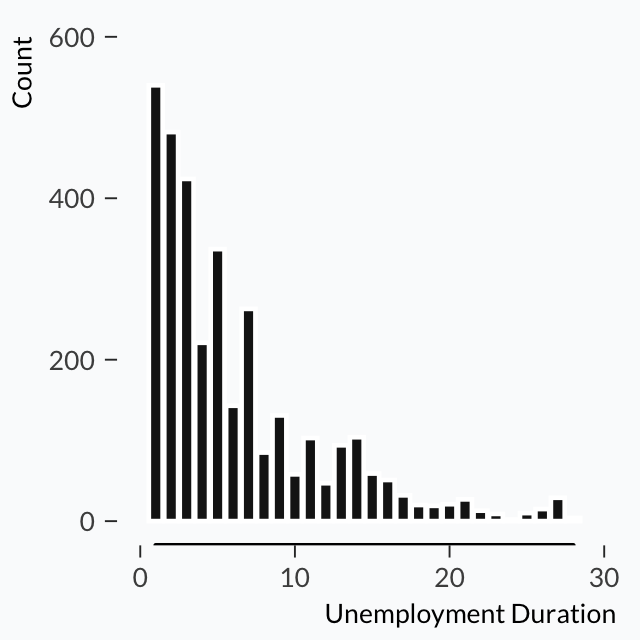
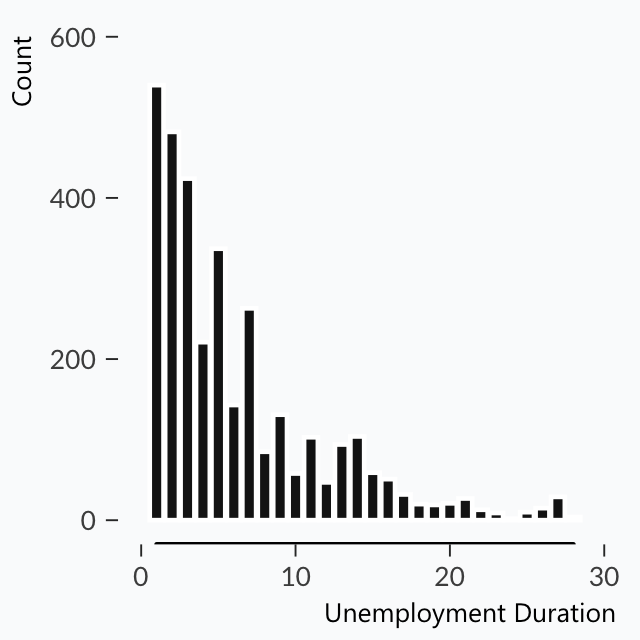
adjust font sizes

diff --git a/css/tufte.scss b/css/tufte.scss
@@ -40,6 +40,8 @@ body {
     max-width: 1400px;
     counter-reset: sidenote-counter;
     line-height: 0.0;
+    text-align: justify;
+    text-justify: inter-word;
 }
 
 p, a {
@@ -185,16 +187,15 @@ blockquote footer {
 //     letter-spacing: .03em;
 // }
 
-pre, pre code, p code, p pre code {
+pre, pre code, p code, p pre code, .marginnote code, figcaption.maincolumn-figure code {
     // Inline code 
     font-family: OperatorMono;
     font-size: 1rem;
-    // margin-top: 1.71428571rem;
     color: $code-color;
     background-color: #eeeff0;
-    padding-left: 3px;
-    padding-right: 3px;
-    border-radius: 05px;
+    padding-left: 6px;
+    padding-right: 6px;
+    border-radius: 5px;
 }
 
 pre code {
@@ -203,12 +204,11 @@ pre code {
     margin-left: -2rem;
     line-height: 1.6;
     padding: 0.5rem 1rem 0.5rem 1rem;
-    // margin-top: -1.0rem;
     margin-bottom: 0rem;
     color: $code-color;
-    display: inline-block;
     display: block;
     background: $bg-color;
+    background-color: contrast-color;
     
 }
 
@@ -237,10 +237,6 @@ table.norulers td {
     border-bottom: 0px solid $border-color;
 }
 
-
-table.norulers tr code {
-    font-family: OperatorMono;
-}
 
 table.norulers tr em {
     font-size: 1.0rem;
@@ -380,6 +376,12 @@ figure.fullwidth figcaption {
 
 img { max-width: 100%; }
 
+figcaption.maincolumn-figure {
+    max-width: 50%;
+    margin-right: -60%;
+    
+}
+
 .sidenote, .marginnote {
     float: right;
     clear: right;
@@ -516,9 +518,6 @@ figcaption.maincolumn-figure, figcaption.maincolumn-figure a, figcaption.maincol
     font-size: 0.8rem;
 }
 
-figcaption.maincolumn-figure code {
-    font-family: OperatorMono;
-}
 
 /*--- End of Basic Layout stuff from tufte.css ---*/
 

diff --git a/_sass/_settings.scss b/_sass/_settings.scss
@@ -3,7 +3,6 @@ $sans-font: Myriad, "Gill Sans", "Gill Sans MT", "Gotham Narrow", "Lato", Calibr
 $code-font: OperatorMono, "Liberation Mono", Menlo, Courier, monospace;
 $url-font: "Lucida Console", "Lucida Sans Typewriter", Monaco, "Bitstream Vera Sans Mono", monospace;
 $text-color: #111;
-// $bg-color: #ffffff;
 $bg-color: #fafbfc;
 $code-color: #24292e;
 $contrast-color: #a00000;

diff --git a/_posts/2021-04-12-Survival-Analysis.md b/_posts/2021-04-12-Survival-Analysis.md
@@ -22,7 +22,8 @@ where files are split into `imports.R`, `exploratory.R` and
 We begin the analysis by loading the data into our R workspace along with
 the packages we're going to use. The data itself is from [the Ecdat
 package](https://cran.r-project.org/web/packages/Ecdat/Ecdat.pdf) and was
-used in McCall (1996).
+used in McCall (1996). The main methodological references are Cameron &
+Trivedi (2005) and Wooldridge (2010).
 
 {% marginfigure 'fig2' 'assets/unemp/censored_hist.png' "**Figure
 2**: Distributions of the four `censor` variables where I've changed the
@@ -75,11 +76,9 @@ entered the workforce at the end of the survey.
 <tr><td><code>tenure</code></td><td>Tenure at lost job.</td></tr>
 </table>
 
-
 As a last step in the introduction, summary statistics are computed for
 each variable using my own `dsummary()` function, the definition of which
 can be found in [my .Rprofile](https://github.com/mhoirup/dotfiles/blob/main/.Rprofile).
-
 
 {% marginnote 'tableID-3' "**Table 1**: Summaries of categorical variables.
 They're all binary variables, although of different data types, i.e.
@@ -87,19 +86,19 @@ boolean or character vectors. For all the `censor` variables we observe
 non-censoring more often than not, while the availability of unemployment
 insurance appears to be evenly split among observations." %}
 
-|Variable  |Type      |N Unique |Most Frequent Value|Min   |Mean  |Max   |SD    |
-|:---------|:---------|--------:|------------------:|-----:|-----:|-----:|-----:|
-|`spell`   |`integer` |         |                   |1.00  |6.25  |28.00 |5.61  |
-|`censor1` |`logical` |2        |  `FALSE` (67.90%) |      |      |      |      |
-|`censor2` |`logical` |2        |  `FALSE` (89.86%) |      |      |      |      |
-|`censor3` |`logical` |2        |  `FALSE` (82.83%) |      |      |      |      |
-|`censor4` |`logical` |2        |  `FALSE` (62.46%) |      |      |      |      |
-|`age`     |`integer` |         |                   |20.00 |35.44 |61.00 |10.64 |
-|`ui`      |`factor`  |2        |  `yes` (55.28%)   |      |      |      |      |
-|`reprate` |`double`  |         |                   |0.07  |0.45  |2.06  |0.11  |
-|`disrate` |`double`  |         |                   |0.00  |0.11  |1.02  |0.07  |
-|`logwage` |`double`  |         |                   |2.71  |5.69  |7.60  |0.54  |
-|`tenure`  |`integer` |         |                   |0.00  |4.11  |40.00 |5.86  |
+|Variable  |Vector Type|N Unique |Most Frequent Value|Min   |Mean  |Max   |SD    |
+|:---------|:----------|--------:|------------------:|-----:|-----:|-----:|-----:|
+|`spell`   |`integer`  |         |                   |1.00  |6.25  |28.00 |5.61  |
+|`censor1` |`logical`  |2        |  `FALSE` (67.90%) |      |      |      |      |
+|`censor2` |`logical`  |2        |  `FALSE` (89.86%) |      |      |      |      |
+|`censor3` |`logical`  |2        |  `FALSE` (82.83%) |      |      |      |      |
+|`censor4` |`logical`  |2        |  `FALSE` (62.46%) |      |      |      |      |
+|`age`     |`integer`  |         |                   |20.00 |35.44 |61.00 |10.64 |
+|`ui`      |`factor`   |2        |  `yes` (55.28%)   |      |      |      |      |
+|`reprate` |`double`   |         |                   |0.07  |0.45  |2.06  |0.11  |
+|`disrate` |`double`   |         |                   |0.00  |0.11  |1.02  |0.07  |
+|`logwage` |`double`   |         |                   |2.71  |5.69  |7.60  |0.54  |
+|`tenure`  |`integer`  |         |                   |0.00  |4.11  |40.00 |5.86  |
 
 {% marginfigure 'fig3' 'assets/unemp/age_hist.png' '**Figure 3**: Distribution
 of `age`. Bin width is set at 2 to reduce the number of bars in the graph.
@@ -121,6 +120,28 @@ typically deal with one of the following censoring mechanisms:
 <tr><td><strong>left-censoring</strong></td><td>Spell has already ended at censor time $c$. Time $t$ is unknown but somewhere in the interval $(0,c)$.</td></tr>
 <tr><td><strong>interval-censoring</strong></td><td>Spell has ended at censor time $c$, but time $t$ is unknown. What is known is that $t$ is somewhere in the interval $[t_1^*,t_2^*]$.</td></tr>
 </table>
+
+Define the **censoring mechanism** as $C$, and let $T^\*$ denote the true (as
+in, unaffected by censoring) version of the observed variable $T$. Thus we
+observed the variables
+
+$$
+    \begin{align}
+        T&=\min(T^*,C) \\
+        \delta&=I(T^*>C)
+    \end{align}
+$$
+
+where, in our data loaded into R, `spell` correspond to $T$ and `censor4`
+to $\delta$. For standard survival analysis methods to be valid under the
+presence of censoring, we require $C$ to be independent from $T$, so that,
+if $C\sim D(\boldsymbol{\theta}_{\small C})$ and $T^\*\sim
+D(\boldsymbol{\theta}\_{\small T^\*})$, then $\boldsymbol{\theta}\_{\small
+C}$ is uninformative about $\boldsymbol{\theta}\_{\small T^\*}$, in which
+case we can treat $\delta$ as exogenous and therefore don't have to model $C$.  
+
+
+
 
 {% maincolumn 'assets/unemp/spell_censor4.png' "**Figure 4**: `censor4` over the values
 of `spell`. Unsurprisingly, the length of the spell appear to correspond to
@@ -282,108 +303,4 @@ function as specified by the distribution, and
 $h(\boldsymbol{x},\boldsymbol{\beta})$ is a scale factor, where typically
 $h(\boldsymbol{x},\boldsymbol{\beta})=\exp(\boldsymbol{x}^{\small{\prime}}\boldsymbol{\beta})$.
 For example, under the Weibull distribution we have $\lambda_0(t)=$ 
-
-
-### Variate Selection and Model Fitting
-
-
-```R
-specification <- function(response, regressors, lhs = NULL, rhs = NULL,
-    polynomials = NULL, intercept = TRUE) {
-    # This function is to ease the tinkering with variables in the model
-    # estimation procedure. Since a string can be converted into an R
-    # formula, manipulating the formula can be boiled down to string
-    # manipulation.
-    # Initiate the formula by concatenating the regressors with '+' and
-    # 'response ~'.
-    spec <- paste(response, '~', paste(regressors, collapse = '+'))
-    # Create any interaction terms where terms are specified by lhs and rhs.
-    if (!is.null(lhs) && !is.null(rhs)) {
-        M <- expand.grid(lhs, rhs)
-        idx <- sapply(seq_len(nrow(M)), function(i) M[i, 1] != M[i, 2])
-        spec <- paste(spec, '+', paste(M[idx, 1], M[idx, 2], sep = ':',
-            collapse = '+'))
-    }
-    # Add to the formula any polynomial terms of order 2.
-    if (!is.null(polynomials)) {
-        spec <- paste(spec, paste(paste0(polynomials, '^2'), collapse = '+'))
-    }
-    # Optional: remove intercept.
-    if (intercept == FALSE) spec <- paste(spec, '-1')
-    as.formula(spec)
-}
-
-spec <- function(x) specification('Surv(spell, censor4 == 0)', x)
-regressors <- names(data)[!grepl('censor|spell', names(data))]
-progress <- data.frame() # Bad practice to fill out a dataframe without
-# specifying its size first, but we don't know how many variables
-# are insignificant.
-
-for (dist in c('weibull', 'exponential', 'lognormal', 'loglogistic', 'coxph')) {
-    covariates <- regressors; reduced <- TRUE
-    while (reduced) {
-        # The 'coxph' isn't really a distribution, but here we simply specify
-        # the Cox model instead if dist == 'coxph'.
-        if (dist == 'coxph') unrestricted <- coxph(spec(covariates), data)
-        else unrestricted <- survreg(spec(covariates), data, dist = dist)
-        # Get the p-values and sort them highest to lowest. Idx gives the
-        # indices in covariates corresponding to the sorted list of p-values.
-        # Also keeps track of the current numbers of rows in progress.
-        cfs <- coeftest(unrestricted); rows <- nrow(progress)
-        pvalues <- cfs[!(rownames(cfs) %in% c('(Intercept)', 'Log(scale)')), 4]
-        idx <- sort(pvalues, index.return = TRUE, decreasing = TRUE)$ix
-        for (var in covariates[idx]) {
-            # Estimate the model without the candiate variate and compute the
-            # p-value for the likelihood ratio test.
-            subset <- covariates[covariates != var]
-            if (dist == 'coxph') restricted <- coxph(spec(subset), data)
-            else restricted <- survreg(spec(subset), data, dist = dist)
-            lr_pvalue <- lmtest::lrtest(unrestricted, restricted)[[5]][2]
-            # Here we check for the percentage change in the remaining
-            # coefficients, with an acceptable limit being at 15% in either
-            # direction.
-            new_params <- restricted$coefficients[-1]
-            params <- unrestricted$coefficients[names(new_params)]
-            differences <- abs(((new_params - params) / params)) * 100
-            dmax <- c(names(which.max(differences)), max(differences))
-            if (lr_pvalue > 0.05 && as.double(dmax[2]) < 15) {
-                covariates <- subset
-                progress <- rbind(progress, data.frame(
-                    dist, var, lr_pvalue, delta_var = dmax[1], delta_p = dmax[2]
-                ))
-                break
-            }
-        }
-        if (rows == nrow(progress)) break
-    }
-    # Finally we print a message which tells us (1) how many variables
-    # are removed, (2) which were removed, and (3) the log-likelihood
-    # of the final specification.
-    nremoved <- length(regressors) - length(covariates)
-    which_removed <- regressors[!(regressors %in% covariates)]
-    message <- paste(dist, 'distribution: removed', nremoved, 'variable(s)',
-        paste0('(', paste(which_removed, collapse = ', '), ').'),
-        '\n negative log-likelihood of final model:',
-        round(logLik(unrestricted), 2), '\n\n')
-    cat(message)
-}
-# weibull distribution: removed 1 variable(s) (tenure). 
-#  negative log-likelihood of final model: -6573 
-# 
-# exponential distribution: removed 1 variable(s) (tenure). 
-#  negative log-likelihood of final model: -6583.05 
-# 
-# lognormal distribution: removed 1 variable(s) (tenure). 
-#  negative log-likelihood of final model: -6338.08 
-# 
-# loglogistic distribution: removed 1 variable(s) (tenure). 
-#  negative log-likelihood of final model: -6378.36 
-# 
-# coxph distribution: removed 1 variable(s) (tenure). 
-#  negative log-likelihood of final model: -15118.03
-
-regressors <- regressors[regressors != 'tenure']
-
-```
-
 

diff --git a/about/index.md b/about/index.md
@@ -19,3 +19,5 @@ general, I'll try to use R for my analytical projects, while Python is for
 building models from the ground up, which I have found to be a good exercise in
 wrapping my head around the various estimation procedures.
 </p>
+<!-- <h2 style='width:65%;margin-left:auto;margin-right:auto;padding-right:14%;margin-top:2rem;'>A Quick Note on Notation</h2> -->
+
